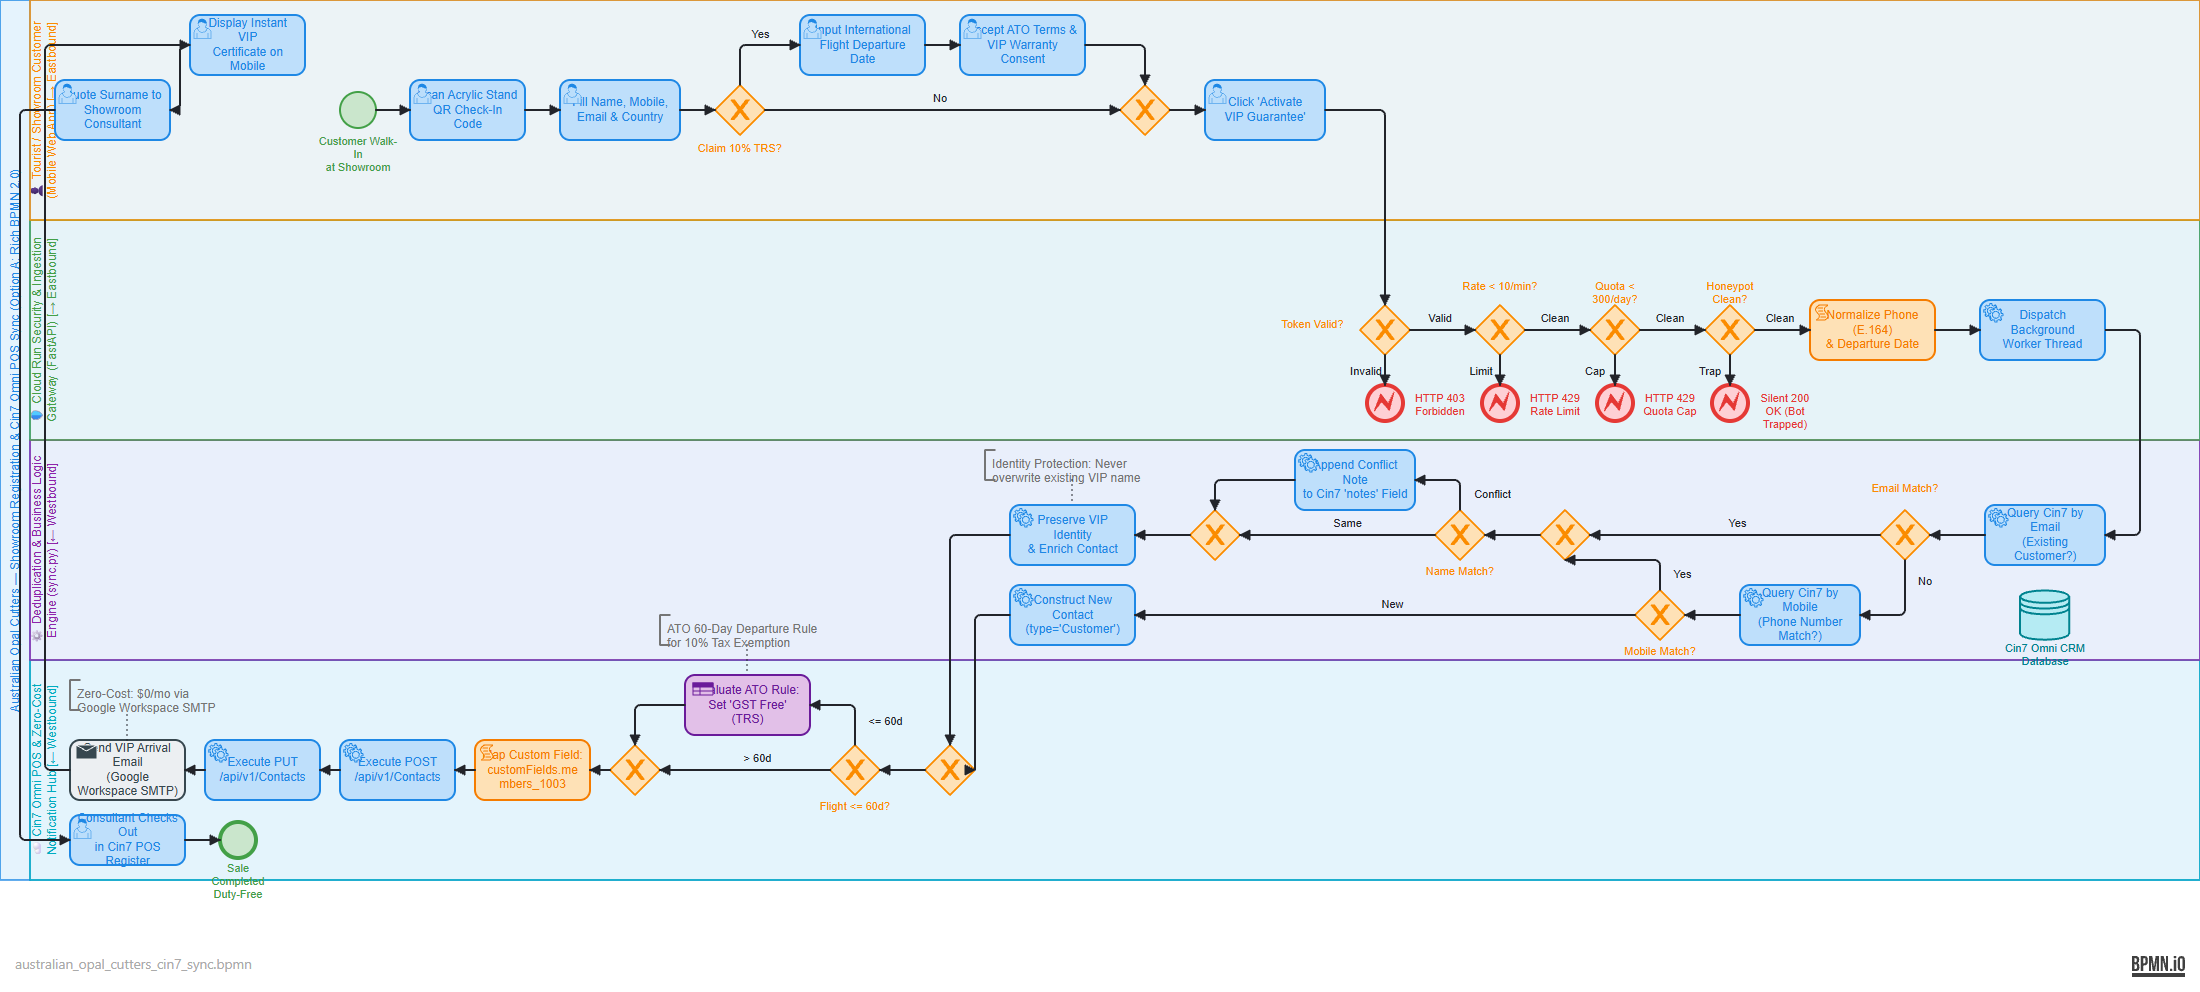
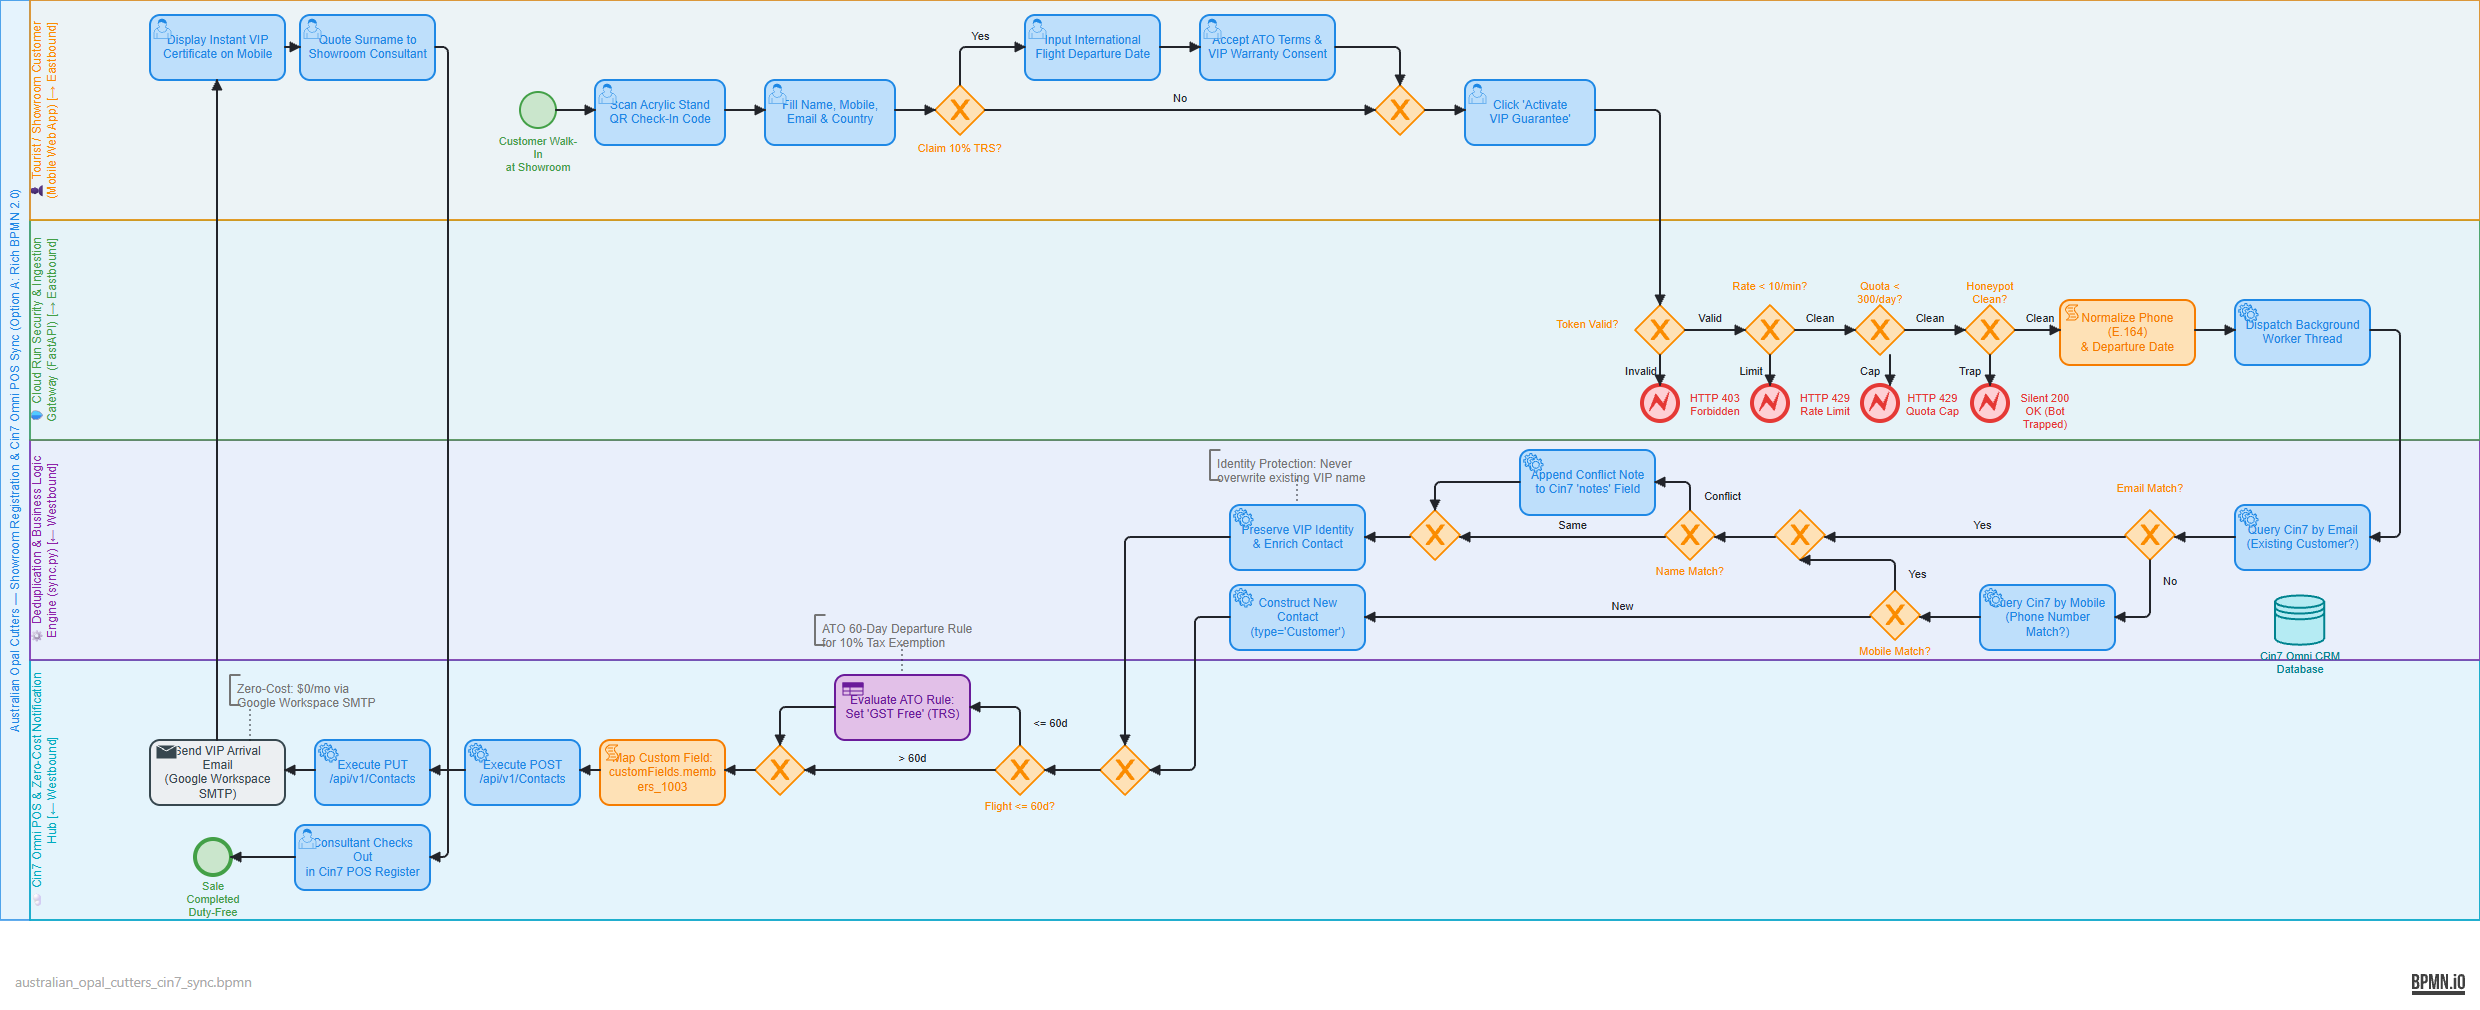
fix(showcase): update refined BPMN diagram and equalize accordion button alignment

diff --git a/index.html b/index.html
@@ -227,7 +227,7 @@
             </button>
           </div>
           <!-- Clean Symmetrical Pill Button (Default: Unexpanded) -->
-          <span id="flow-chevron" class="text-xs text-slate-500 font-semibold bg-slate-100 hover:bg-slate-200 border border-slate-200 px-3 py-1.5 rounded-lg whitespace-nowrap transition-colors">
+          <span id="flow-chevron" class="text-xs text-slate-500 font-semibold bg-slate-100 hover:bg-slate-200 border border-slate-200 px-3 py-1.5 rounded-lg whitespace-nowrap transition-colors w-36 text-center inline-flex items-center justify-center">
             ▼ [Click to Expand]
           </span>
         </div>
@@ -440,7 +440,7 @@
           </div>
         </div>
         <!-- Clean Symmetrical Pill Button (Default: Unexpanded) -->
-        <span id="arch-chevron" class="text-xs text-slate-500 font-semibold bg-slate-100 hover:bg-slate-200 border border-slate-200 px-3 py-1.5 rounded-lg whitespace-nowrap transition-colors">
+        <span id="arch-chevron" class="text-xs text-slate-500 font-semibold bg-slate-100 hover:bg-slate-200 border border-slate-200 px-3 py-1.5 rounded-lg whitespace-nowrap transition-colors w-36 text-center inline-flex items-center justify-center">
           ▼ [Click to Expand]
         </span>
       </div>
